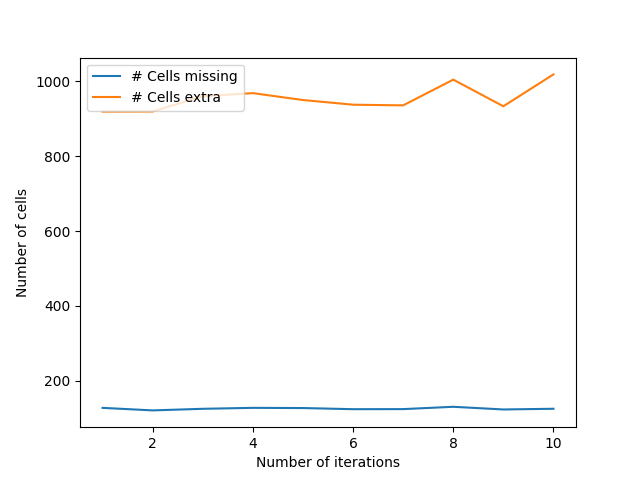
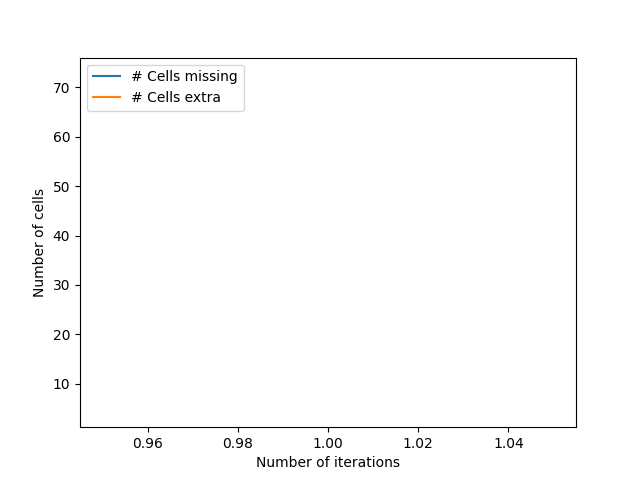
fixed the errors with the analytics function

diff --git a/source/probability_search/analytics.py b/source/probability_search/analytics.py
@@ -61,18 +61,9 @@ def run_recursion_tests(pipeline, remove_counts_list, n_iters, n_items):
 				result_with_probs = [tuple(x) for x in list(np.argwhere(result.numpy() > 0))]
 				original_alive_cells = [tuple(x) for x in list(np.argwhere(initialState[0].numpy() == 1))]
 
-				positive_scores = [result[x[0], x[1]] for x in removed_cells]
-				negative_scores = [result[x[0], x[1]] for x in result_with_probs if not x in original_alive_cells]
-				intactness_list = [result[x[0], x[1]] for x in result_with_probs if x in original_alive_cells]
-
-				# get the final matrix
-				result = result.numpy()
-				threshold = np.mean(result)
-				aboveHalf = np.argwhere(result > threshold)
-				result[aboveHalf[:, 0], aboveHalf[:, 1]] = 1
-				belowHalf = np.argwhere(result <= threshold)
-				result[aboveHalf[:, 0], aboveHalf[:, 1]] = 0
-				extra, missing = locationDifferencesBetweenTwoMatrixies(test_ship, result)
+				positive_scores = [result[x[0], x[1]].item() for x in removed_cells]
+				negative_scores = [result[x[0], x[1]].item() for x in result_with_probs if not x in original_alive_cells]
+				intactness_list = [result[x[0], x[1]].item() for x in result_with_probs if x in original_alive_cells]
 
 				# prevent mean on empty slice
 				if not positive_scores:	positive_scores = [0]
@@ -84,6 +75,15 @@ def run_recursion_tests(pipeline, remove_counts_list, n_iters, n_items):
 				result_dict["positive_scores"].append(np.mean(positive_scores))
 				result_dict["negative_scores"].append(np.mean(negative_scores))
 				result_dict["intactness_scores"].append(np.mean(intactness_list))
+
+				result = result.numpy()
+				newMatrix = np.zeros_like(result)
+				threshold = np.mean(result)
+				aboveHalf = np.argwhere(result > threshold)
+				newMatrix[aboveHalf[:, 0], aboveHalf[:, 1]] = 1
+				belowHalf = np.argwhere(result < threshold)
+				newMatrix[belowHalf[:, 0], belowHalf[:, 1]] = 0
+				extra, missing = locationDifferencesBetweenTwoMatrixies(test_ship, newMatrix)
 				result_dict["n_cells_missing_after_recursion"].append(len(missing))
 				result_dict["n_cells_extra_after_recursion"].append(len(extra))
 
@@ -142,8 +142,8 @@ def run_ship_network_tests():
 		model.eval()
 		pipeline.append(model)
 
-	MAX_ITER = 10	# the max amount of recursions
-	MAX_REMOVE_COUNT = 40	# the maximum amount of cells to be removed
+	MAX_ITER = 1	# the max amount of recursions
+	MAX_REMOVE_COUNT = 20	# the maximum amount of cells to be removed
 
 	test_n_iters = [i+1 for i in range(MAX_ITER)]
 	remove_counts_list = [i+1 for i in range(MAX_REMOVE_COUNT)]
@@ -264,7 +264,15 @@ def analyzeSearchMethodConvergence():
 	plt.ylabel("Score")
 	plt.legend(loc="upper left")
 	plt.show()
-	plt.savefig("max_depth")
+	plt.savefig("mse_score_max_depth")
+
+	plt.plot(max_depth_grouped["cells_missing"], label="# cells missing")
+	plt.plot(max_depth_grouped["extra_cells"], label="# cells extra")
+	plt.xlabel("Max depth")
+	plt.ylabel("# cells")
+	plt.legend(loc="upper left")
+	plt.show()
+	plt.savefig("number_of_cells_max_depth")
 
 	plt.plot(n_cells_removed_grouped["mse_score"], label="MSE Score")
 	# plt.plot(n_cells_removed_grouped["cells_missing"], label="# cells missing")
@@ -273,7 +281,15 @@ def analyzeSearchMethodConvergence():
 	plt.ylabel("# of cells")
 	plt.legend(loc="upper left")
 	plt.show()
-	plt.savefig("n_cells_removed")
+	plt.savefig("mse_score_n_cells_removed")
+
+	plt.plot(n_cells_removed_grouped["cells_missing"], label="# cells missing")
+	plt.plot(n_cells_removed_grouped["extra_cells"], label="# cells extra")
+	plt.xlabel("# cells removed")
+	plt.ylabel("# of cells")
+	plt.legend(loc="upper left")
+	plt.show()
+	plt.savefig("number_of_cells_n_cells_removed")
 
 
 if __name__ == "__main__":
@@ -282,13 +298,11 @@ if __name__ == "__main__":
 	ships = rle_reader.getFileArray(filePath)
 
 	run_ship_network_tests()
-	# runScoringTests(100)	# number input is number of iterations
+	# runScoringTests(100)
 	# analyzeSearchMethodConvergence()
 
 
-# Some ideas:
-#  - iterations until converging to a spaceship
-#  - Comparing the other algorithms may not work
-#  - the current metrics with the average improvemnt
-#  - The "closeness" to a spaceship
-#  - More ideas with JW in a recording
+# Current analytics available:
+# - Network tests:
+# --> Number of cells missing/extra for number of iterations
+# --> x`

diff --git a/source/probability_search/probability_assisted_tree_search.py b/source/probability_search/probability_assisted_tree_search.py
@@ -59,7 +59,7 @@ class Board:
 
 
 	def iterativeChangeMethod(self):
-		newGrid = modelChangeIteratively(self.model, self.board.clone(), 3)
+		newGrid = modelChangeIteratively(self.model, self.board.clone(), 1)
 		return [Board(newGrid)]
 
 	def getScore(self):
@@ -83,7 +83,7 @@ def modelChangeIteratively(model, initialState, n_iters):
 	aboveHalf = np.argwhere(result > threshold)
 	result[aboveHalf[:, 0], aboveHalf[:, 1]] = 1
 	belowHalf = np.argwhere(result <= threshold)
-	result[aboveHalf[:, 0], aboveHalf[:, 1]] = 0
+	result[belowHalf[:, 0], belowHalf[:, 1]] = 0
 
 	return torch.from_numpy(result)
 

diff --git a/source/probability_search/tools/testing.py b/source/probability_search/tools/testing.py
@@ -22,6 +22,10 @@ def createTestingShipWithCellsMissing(ship, n_cells_missing):
 
 
 def locationDifferencesBetweenTwoMatrixies(original, comparison):
+	# print("############## ORIGINAL ##############")
+	# print(original)
+	# print("############## NEW ##############")
+	# print(comparison)
 	difference = original - comparison
 	extra = [tuple(x) for x in np.argwhere(difference < 0)]
 	missing = [tuple(x) for x in np.argwhere(difference > 0)]
